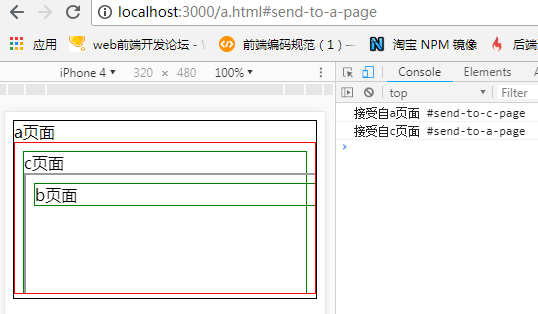
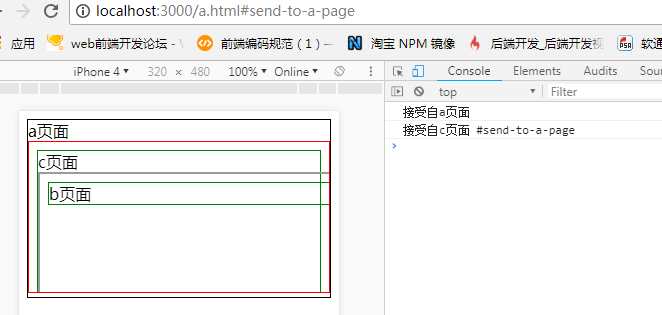
add

Changed region(s): [[0.0, 0.1146, 1.0, 1.0], [0.0, 0.0, 1.0, 0.086]]

diff --git a/1.cross-domain/10.webSocket/static-server2.js b/1.cross-domain/10.webSocket/static-server2.js
@@ -1,0 +1,21 @@
+//一个静态服务器，启动静态资源文件
+const http = require("http");
+const fs = require("fs");
+const app = http.createServer();
+
+app.on("request", (req, res) => {
+  fs.readFile(__dirname + req.url, (err, data) => {
+    if (err) {
+      console.log(err);
+    } else {
+      res.writeHead(200, { "Content-Type": "text/html" });
+      console.log("a", data.toString());
+      res.write(data.toString());
+    }
+    res.end();
+  });
+});
+
+app.listen("4000", () => {
+  console.log("连接到4000端口");
+});

diff --git a/1.cross-domain/8.hash/a.html b/1.cross-domain/8.hash/a.html
@@ -10,13 +10,12 @@
 
 <body style="border:1px solid black">
     a页面
-    <iframe src='http://localhost:4000/c.html#send-to-c-page' id="frame" frameborder=" 0" style="border:1px solid red
+    <iframe src='http://localhost:4000/c.html' id="frame" frameborder=" 0" style="border:1px solid red
     "></iframe>
     <script>
         window.onhashchange = function () {
             console.log("接受自c页面", location.hash)
         }
-
     </script>
 </body>
 

diff --git a/1.cross-domain/1.free-fall/index.html b/1.cross-domain/1.free-fall/index.html
@@ -10,7 +10,7 @@
 
 <body>
     <h1>1.降级浏览器实现跨域</h1>
-    <p>谷歌浏览器中加入:--user-data-dir=C:\MyChromeDevUserData c中建立文件夹</p>
+    <p>谷歌浏览器中加入:</p>
     <script>
         window.onload = function () {
             var url = 'http://localhost:3000/'

diff --git a/1.cross-domain/ajax.md b/1.cross-domain/ajax.md
@@ -1,20 +1,41 @@
-<!-- 同源策略 -->
+## 十种实现跨域的方式
 
-协议 域名 端口 同域
+* 1.降级浏览器谷歌中加入：
+  --user-data-dir=C:\MyChromeDevUserData
+  c 盘中建立文件夹：MyChromeDevUserData
 
-<!-- 为什么浏览器不支持跨域 -->
+* 2.cors
+  服务端建立白名单允许某些域名跨域
 
-cookie localstroage
-indexDB
+* 3.nginx
+  服务器之间不跨越，代理服务器
 
-## 实现跨域
+* 4.http-proxy
 
-* jsonp
-* cors
-* postMessage
-* documnet.domain
-* window.name
-* location.hash
-* http-proxy
-* nginx
-* websocket
+* 5.jsonp
+  利用 script 允许跨域的特征
+
+* 6.domain
+  二级域名之间跨域，子域名指定其一级域名
+  frame.contentWindow 中有传过来的值
+
+* 7.name
+  a、b 页面同源
+  a、c 页面跨域
+
+  a：a 页面有 c 页面,a 中替换 c 页面为 b 页面
+  c:传值
+  a：iframe.contentWindow 中有传过来的值
+
+* 8.hash
+  a、b 页面同源
+  a、c 页面跨域
+
+  a：a 页面有 c 页面
+  c:创建 b 页面并传值
+  b:window.parent.parent.location.hash = location.hash
+  a:得到 c 中的 b 传过来的值
+
+* 9.postMessage
+
+- 10.websocket
